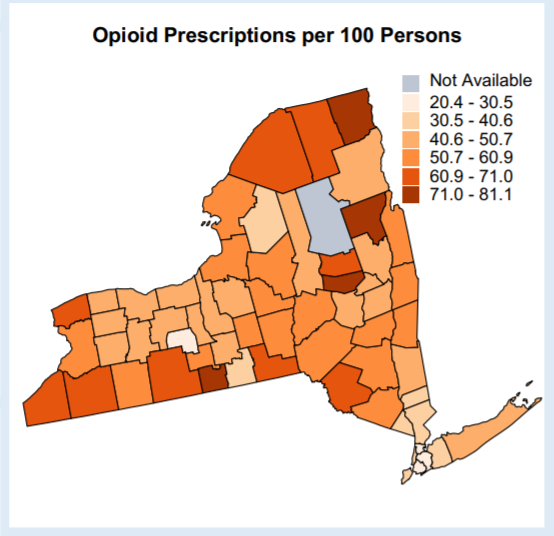
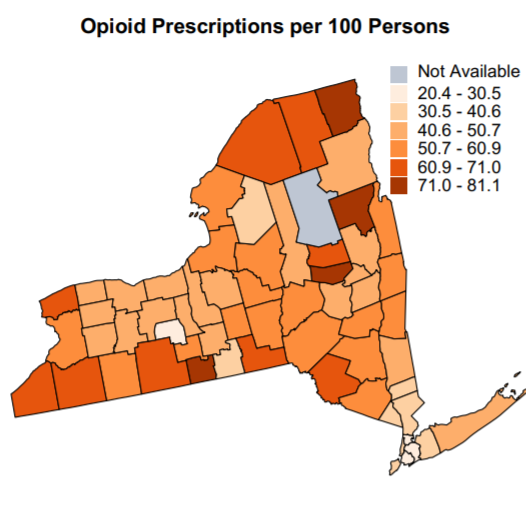
added the map to motivation

Changed region(s): [[0.0, 0.0, 1.0, 1.0], [0.4259, 0.2348, 0.4563, 0.2935]]

diff --git a/index_report.html b/index_report.html
@@ -396,6 +396,7 @@ div.tocify {
 <div id="motivation" class="section level1">
 <h1>Motivation</h1>
 <p>Given this, our goal in this project was to find out whether there is any meaningful information about demographics of people who were affected by opioid overdose. For instance, if certain age groups, gender, racial groups, or living condition accompanies with higher rates of opioid-related death in New York City. Also, we were interested in learning more about how these trends change over the years. We also look for any significant and meaningful information about the number of Emergency Room visits, the number of opioid-related death, and the number of pills prescribed to see if there is any meaningful and significant relationship between the different counties of New York City.</p>
+<p><img src="maps.png" /></p>
 </div>
 <div id="related-work" class="section level1">
 <h1>Related work</h1>
